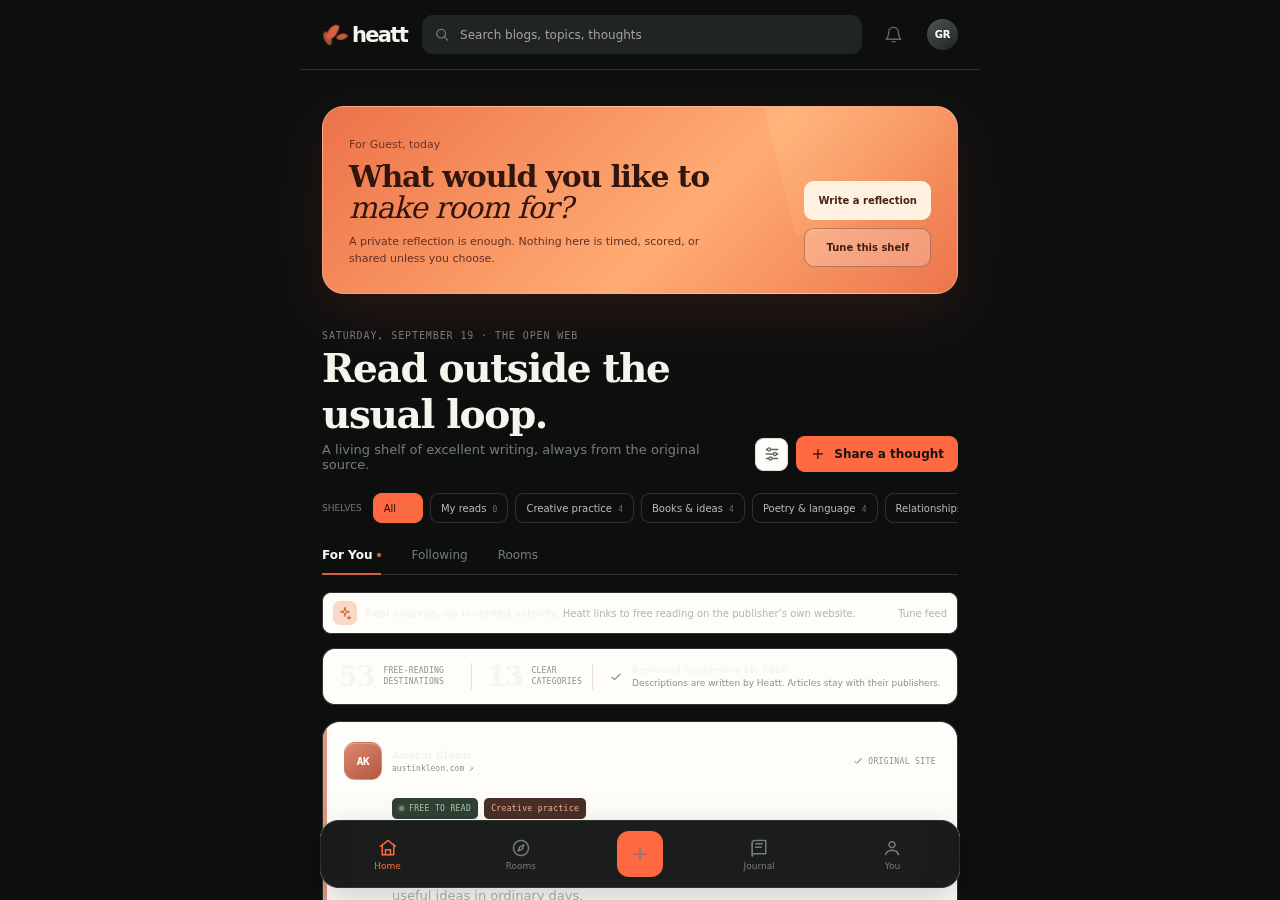
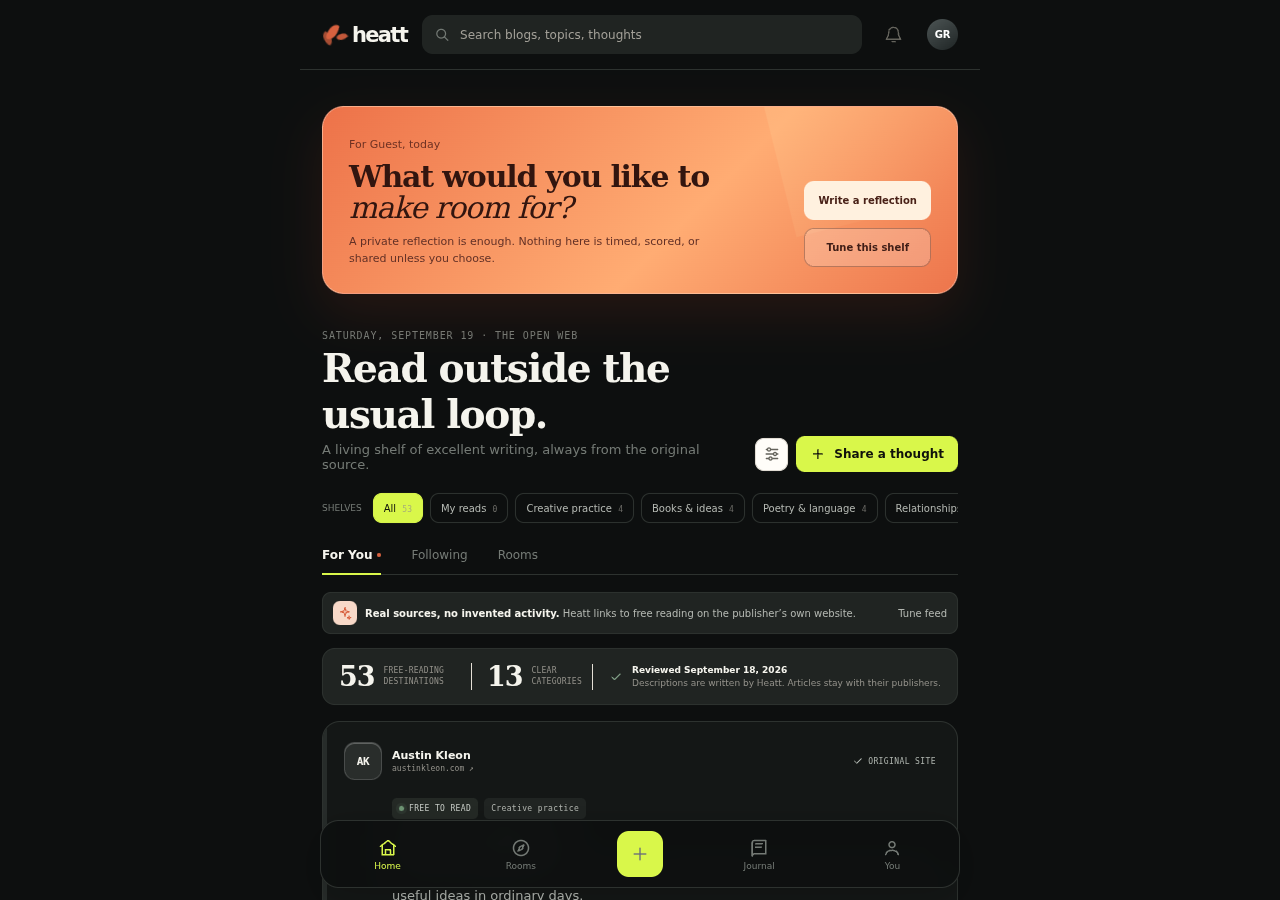
Refine Midnight atmosphere from final visual references

Changed region(s): [[0.25, 0.6533, 0.75, 1.0], [0.625, 0.4667, 0.75, 0.5289], [0.2812, 0.5289, 0.3438, 0.5911]]

diff --git a/src/theme.css b/src/theme.css
@@ -55,9 +55,9 @@
   --surface-copy: #b3b7b1;
   --surface-muted: #747a75;
   --surface-line: #2d322f;
-  --surface-accent: #ff6941;
-  --surface-accent-strong: #ff805f;
-  --surface-on-accent: #17100d;
+  --surface-accent: #d9f74a;
+  --surface-accent-strong: #e6ff76;
+  --surface-on-accent: #10120b;
 }
 
 .app-shell, .main-column, .topbar, .mobile-nav, .route-stage { background-color: var(--surface-bg); color: var(--surface-text); }
@@ -81,6 +81,12 @@
 .app-shell.atmosphere-midnight .feed-explainer, .app-shell.atmosphere-midnight .library-overview { color: var(--surface-copy); border-color: var(--surface-line); background: var(--surface-soft); }
 .app-shell.atmosphere-midnight .feed-explainer strong, .app-shell.atmosphere-midnight .library-count, .app-shell.atmosphere-midnight .library-overview p strong { color: var(--surface-text); }
 .app-shell.atmosphere-midnight .blog-card h2, .app-shell.atmosphere-midnight .page-heading h1, .app-shell.atmosphere-midnight .blog-source-meta strong { color: var(--surface-text); }
+.app-shell.atmosphere-midnight .feed-tabs button.active::after, .app-shell.atmosphere-midnight .journal-tabs button.active::after, .app-shell.atmosphere-midnight .room-tabs button.active::after { background: var(--surface-accent); }
+.app-shell.atmosphere-midnight .blog-card-accent { background: var(--surface-line); }
+.app-shell.atmosphere-midnight .source-mark { color: var(--surface-text); background: #292d2b; }
+.app-shell.atmosphere-midnight .category-label { color: var(--surface-copy); background: var(--surface-soft); }
+.app-shell.atmosphere-midnight .free-label { color: #c6cbc5; background: #242925; }
+.app-shell.atmosphere-midnight .source-trust { color: #aeb4ae; }
 .app-shell.atmosphere-paper .room-card, .app-shell.atmosphere-paper .settings-section, .app-shell.atmosphere-paper .profile-stats, .app-shell.atmosphere-paper .privacy-row { box-shadow: none !important; background: transparent !important; }
 .app-shell.atmosphere-paper .room-card { border-color: var(--surface-line); }
 

diff --git a/src/blog-feed.css b/src/blog-feed.css
@@ -374,20 +374,26 @@
 }
 
 .app-shell.atmosphere-midnight .open-web-explainer,
-.app-shell.atmosphere-midnight .library-overview,
+.app-shell.atmosphere-midnight .library-overview {
+  border-color: var(--surface-line);
+  background: var(--surface-soft);
+}
 .app-shell.atmosphere-midnight .blog-card {
-  background: var(--card);
+  border-color: var(--surface-line);
+  background: var(--surface-panel);
 }
 .app-shell.atmosphere-midnight .free-label {
-  color: #a7c5a9;
-  background: #304034;
+  color: #c6cbc5;
+  background: #242925;
 }
 .app-shell.atmosphere-midnight .category-label {
-  color: #f1ae94;
-  background: #482f28;
+  color: var(--surface-copy);
+  background: var(--surface-soft);
 }
 .app-shell.atmosphere-midnight .blog-actions .saved-source {
-  background: #304034;
+  color: var(--surface-accent);
+  border-color: var(--surface-accent);
+  background: transparent;
 }
 
 @keyframes kindle-pulse {

diff --git a/scripts/theme-contrast-check.ts b/scripts/theme-contrast-check.ts
@@ -7,7 +7,7 @@ const pairs = [
   ['Paper accent action', '#ffffff', '#bd4f35'],
   ['Midnight body', '#f5f4ed', '#0d0f0f'],
   ['Midnight secondary copy', '#b3b7b1', '#0d0f0f'],
-  ['Midnight accent action', '#17100d', '#ff6941'],
+  ['Midnight accent action', '#10120b', '#d9f74a'],
   ['Landing body', '#f7f5ef', '#101313'],
   ['Landing accent action', '#1d110e', '#ff744e'],
 ] as const
